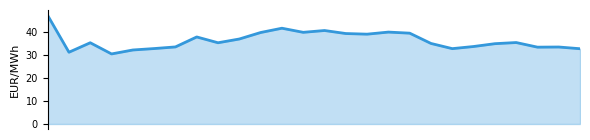
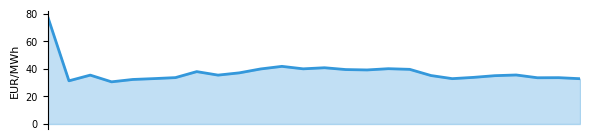
Update Gasspeicher-Report 2026-02-12 07:02

Changed region(s): [[0.0, 0.0571, 1.0, 0.7714]]

diff --git a/index.html b/index.html
@@ -3,7 +3,7 @@
 <head>
 <meta charset="UTF-8">
 <meta name="viewport" content="width=device-width, initial-scale=1.0">
-<title>Energienotfall.de - Energie braucht einen Plan B | Gasspeicher 25.6% | 11.02.2026</title>
+<title>Energienotfall.de - Energie braucht einen Plan B | Gasspeicher 25.6% | 12.02.2026</title>
 <!-- SEO Meta Tags -->
 <meta name="description" content="Energienotfall.de: Energie braucht einen Plan B. Gasspeicher 25.6%, 5 Energieträger im Risikoprofil, Diversifikations-Effekt berechnet. Wer nur auf eine Quelle setzt, riskiert Versorgung und Geldbeutel.">
 <meta name="keywords" content="Energie Plan B, Versorgungssicherheit, Energieresilienz, Gasspeicher Deutschland, Energieträger Vergleich, Diversifikation, Heizung Ausfall, Gasversorgung, Risikoprofil, Pellets, Holz, Strom, Wärmepumpe">
@@ -12,17 +12,17 @@
 <link rel="canonical" href="https://www.energienotfall.de/">
 <link rel="alternate" hreflang="de" href="https://www.energienotfall.de/">
 <link rel="alternate" hreflang="x-default" href="https://www.energienotfall.de/">
-<link rel="preload" as="image" type="image/webp" href="Gasspeicher_Vorhersage_2026-02-11.webp">
+<link rel="preload" as="image" type="image/webp" href="Gasspeicher_Vorhersage_2026-02-12.webp">
 <!-- Open Graph (Facebook, LinkedIn) -->
 <meta property="og:type" content="website">
 <meta property="og:url" content="https://www.energienotfall.de/">
-<meta property="og:title" content="Energienotfall.de - Energie braucht einen Plan B | 11.02.2026">
+<meta property="og:title" content="Energienotfall.de - Energie braucht einen Plan B | 12.02.2026">
 <meta property="og:description" content="Energie braucht einen Plan B: Gasspeicher 25.6%, 5 Energieträger im Risikoprofil – Kann ich heizen, meinen Betrieb sichern, meine Produktion aufrechterhalten, wenn ein Energieträger ausfällt?">
 <meta property="og:locale" content="de_DE">
 <meta property="og:site_name" content="Energienotfall.de">
 <!-- Twitter Card -->
 <meta name="twitter:card" content="summary_large_image">
-<meta name="twitter:title" content="Energienotfall.de - Energie braucht einen Plan B | 11.02.2026">
+<meta name="twitter:title" content="Energienotfall.de - Energie braucht einen Plan B | 12.02.2026">
 <meta name="twitter:description" content="Energie braucht einen Plan B: Gasspeicher 25.6%. Risikoprofil, Diversifikations-Effekt und Plan-B-Check für Haus, Betrieb und Produktion.">
 <!-- JSON-LD Structured Data -->
 <script type="application/ld+json">
@@ -199,11 +199,11 @@ Kältewelle: +50% Verbrauch | Mild: -30% Verbrauch
 <div class="label">Gas (EUR/MWh)</div>
 </div>
 <div class="spark-item">
-<div class="value">107.3</div>
+<div class="value">107.0</div>
 <div class="label">Strom (EUR/MWh)</div>
 </div>
 <div class="spark-item">
-<div class="value spark-profitable">+48.9</div>
+<div class="value spark-profitable">+48.5</div>
 <div class="label">Spread (EUR/MWh)</div>
 </div>
 </div>
@@ -248,8 +248,8 @@ Quellen: Gas (TTF) | Strom (EPEX Spot (energy-charts.info))
 <div class="chart-container">
 <h2 style="margin-bottom: 1rem;">📈 Vorhersage-Diagramm</h2>
 <picture>
-<source srcset="Gasspeicher_Vorhersage_2026-02-11.webp" type="image/webp">
-<img src="Gasspeicher_Vorhersage_2026-02-11.png" alt="Gasspeicher Vorhersage bis 11.04.2026" loading="lazy" width="1920" height="960" />
+<source srcset="Gasspeicher_Vorhersage_2026-02-12.webp" type="image/webp">
+<img src="Gasspeicher_Vorhersage_2026-02-12.png" alt="Gasspeicher Vorhersage bis 11.04.2026" loading="lazy" width="1920" height="960" />
 </picture>
 <div style="margin-top: 0.75rem; font-size: 0.8rem; color: #666;">
 Vorhersage: 60 Tage | Tiefpunkt: 6.9% am 11.04.2026
@@ -262,7 +262,7 @@ Hinweis: Diese Prognose ist eine Modellrechnung auf Basis der letzten 30 Tage. D
 <div class="card" style="grid-column: 1 / -1; margin-top: 1.5rem;">
 <h2>🏢 Deutsche Gasspeicher – Betreiber & Speicher</h2>
 <div style="font-size: 0.75rem; color: #888; margin-bottom: 0.5rem;">
-25 Betreiber | Sortiert nach Kapazität | Hover für Speicher-Details
+24 Betreiber | Sortiert nach Kapazität | Hover für Speicher-Details
 </div>
 <div class="facility-matrix">
 <div class="facility-tile" style="background: rgba(243, 156, 18, 0.85);">
@@ -498,19 +498,6 @@ Kapazität: 2.1 TWh | Gespeichert: 0.8 TWh
 <div class="tile-capacity">2.1 TWh</div>
 <div class="tile-bar"><div class="tile-bar-fill" style="width:38%"></div></div>
 <div class="tile-trend" style="color:#ff6b6b">-1.01%/d</div>
-</div>
-<div class="facility-tile" style="background: rgba(241, 196, 15, 0.75);">
-<div class="tile-tooltip">
-<strong>EnBW Etzel Speicher</strong><br>
-Füllstand: 42.0% | Trend: ±0%/Tag<br>
-Kapazität: 2.1 TWh | Gespeichert: 0.9 TWh
-</div>
-<div class="trend-arrow" style="color:#999">●</div>
-<div class="tile-name">EnBW Etzel Speic…</div>
-<div class="tile-pct">42%</div>
-<div class="tile-capacity">2.1 TWh</div>
-<div class="tile-bar"><div class="tile-bar-fill" style="width:42%"></div></div>
-<div class="tile-trend" style="color:#aaa">±0%/d</div>
 </div>
 <div class="facility-tile" style="background: rgba(243, 156, 18, 0.85);">
 <div class="tile-tooltip">
